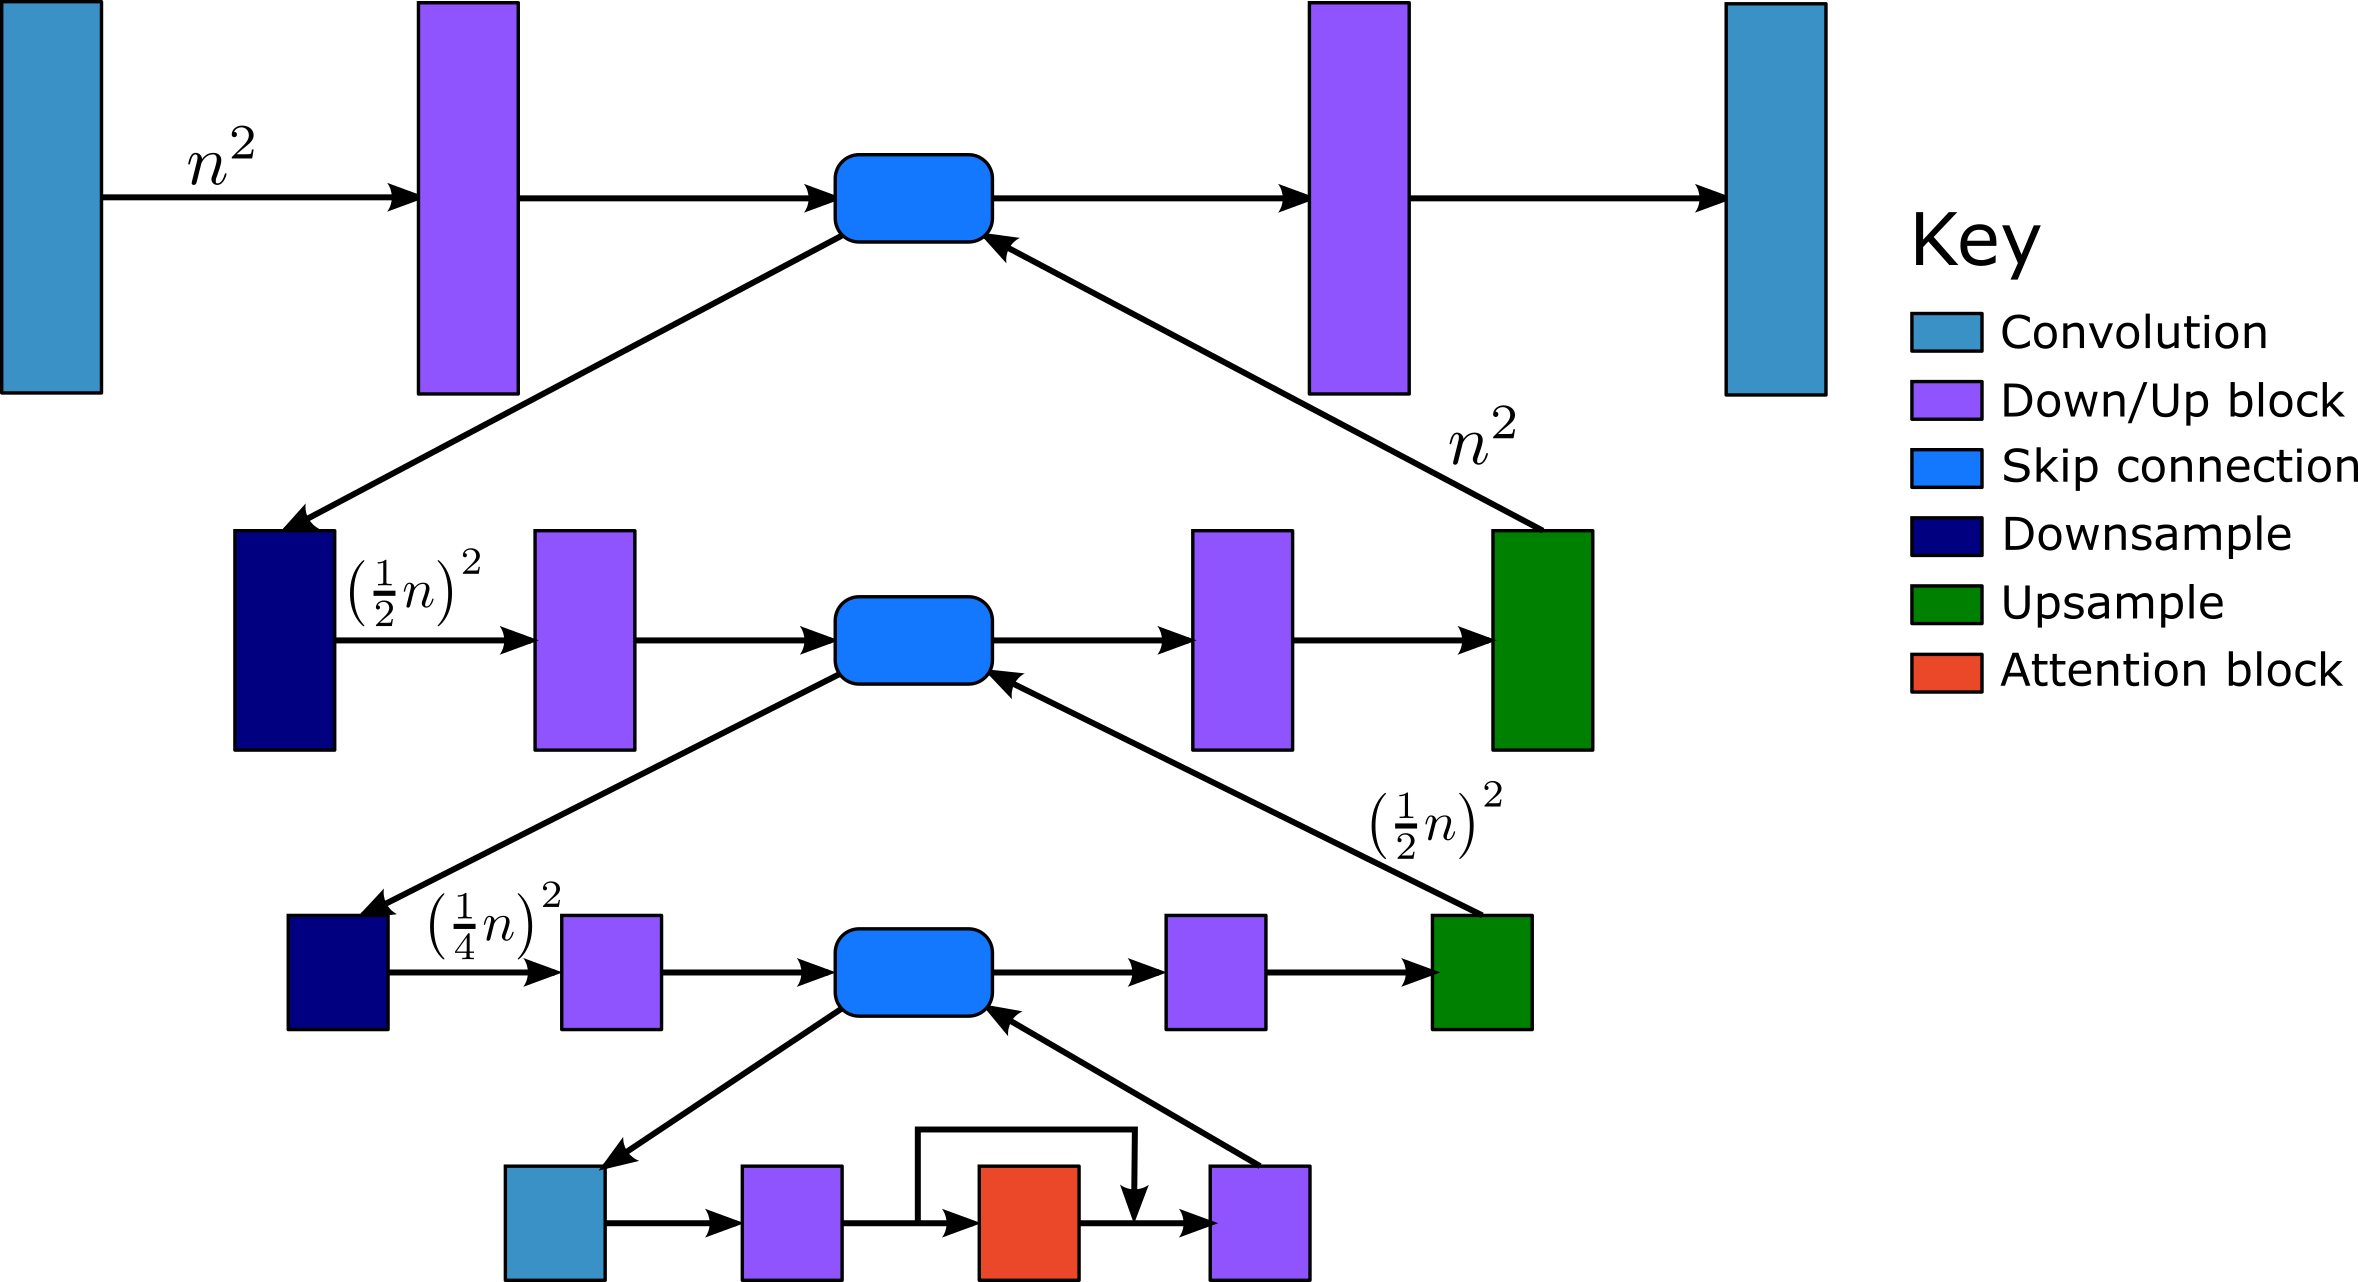
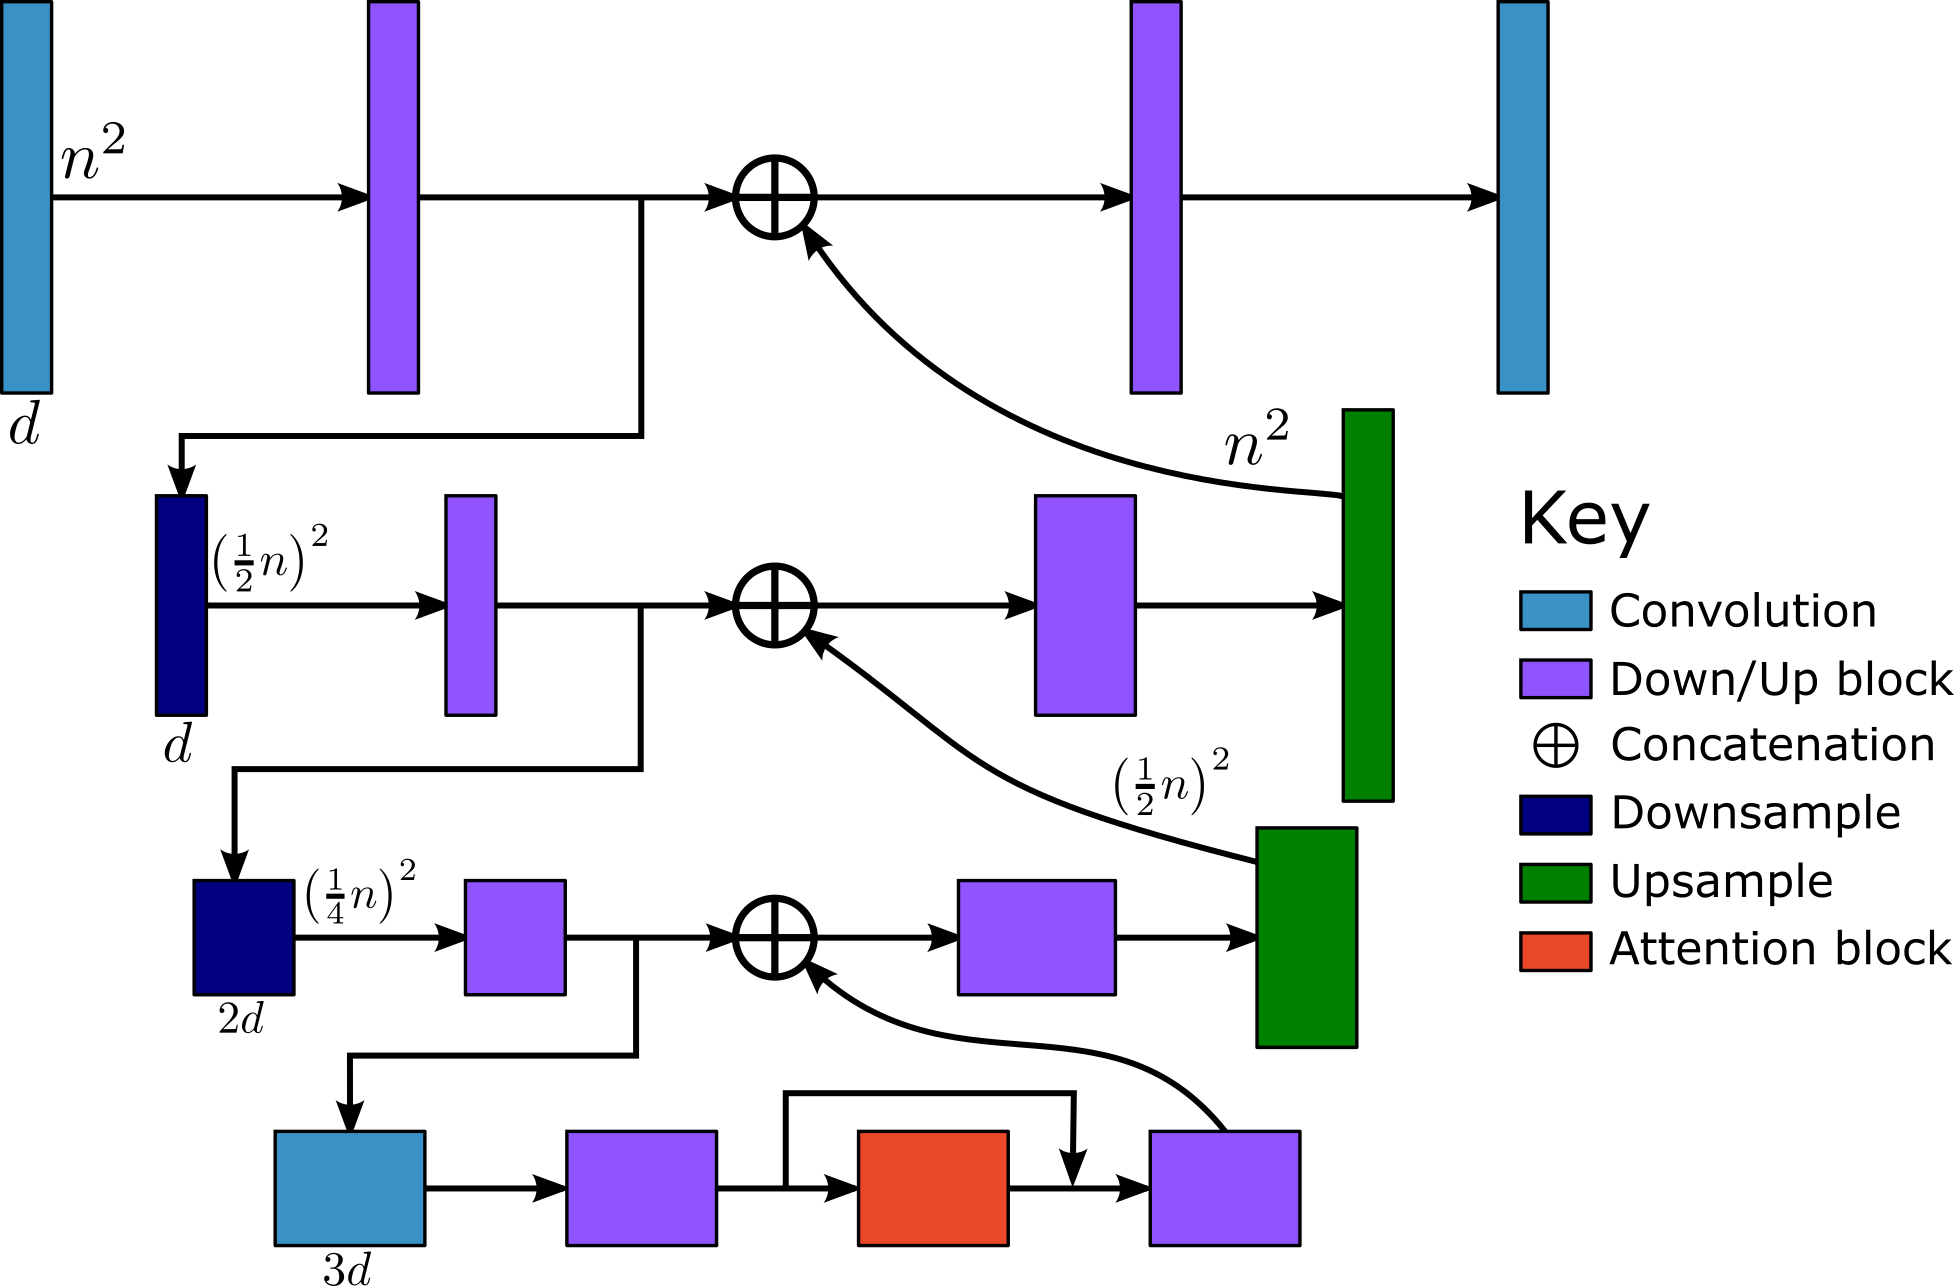
Fixed typos and updated the UNet diagram

diff --git a/_posts/2022-12-29-denoising-diffusion-2-unet.md b/_posts/2022-12-29-denoising-diffusion-2-unet.md
@@ -190,11 +190,11 @@ There are three solutions:
 2. Write a custom [ChainRulesCore.rrule](https://juliadiff.org/ChainRulesCore.jl/stable/rule_author/example.html) for the operation.
 3. Manually write the backward pass instead of using automatic differentiation.
 
-The second option is best when the operation can be isolated to only one layer.[^custom_rrule]
+Option 2 is best when the operation can be isolated to only one layer.[^custom_rrule]
 However here it encompasses most of the forward pass so it essentially is the same as option 3.
-Option 3 is not a good idea because (1) it requires lots more work and (2) the forward pass and backward pass will not be automatically in sync. 
+Option 3 is not a good idea because (1) it requires much more work and (2) the forward pass and backward pass will not be automatically in sync. 
 
-So we are left with the first option.
+So we are left with option 1.
 There are two ways to implement it. 
 The first is to fix the amount of layers so that we don't need a flexible mutable array.
 For example, for the minimum working example with only two layers:
@@ -244,13 +244,11 @@ Here is the full model architecture:
     src="/assets/posts/denoising-diffusion/UNet.png"
 	alt="U-Net with skip connections"
 	>
-<figcaption>U-Net with skip connections. Channel dimension is into the page (not shown). </figcaption>
+<figcaption>U-Net with skip connections. Only output sizes are shown.</figcaption>
 </figure>
 
-I like to think of the skip connections as layered like an onion but it is easiest to draw them unwrapped in the traditional U shape.
-
-Each downsample layer will decrease the image height and width by a factor of 2 but increase the channel dimension by the same amount.
-The sample is therefore downscaled by an overall factor of $\tfrac{1}{2}\tfrac{1}{2}(2)=\tfrac{1}{2}$.
+Each downsample layer will decrease the image height and width by a factor of 2 but increase the channel dimension by a multiplication factor $m$.
+The sample is therefore downscaled by an overall factor of $\tfrac{1}{2}\tfrac{1}{2}(m)=\tfrac{m}{4}$ per level.
 This is reversed with the upsample layers.
 The model however is based on convolutional layers which are independent of the input image height and width and only depend on the channel dimension. 
 (The inference time is a factor of the image size.)
@@ -258,7 +256,7 @@ Each layer grows with a factor $d^2$ for a channel dimension $d$.
 Therefore the largest layers are the middle (bottom) layers where the channel dimension is largest.
 Also because of the concatenation on the channel dimension, the upside layers will tend to be much larger than their downside counterparts.
 
-This figure shows this exponential relationship with the channel dimension more clearly. 
+This figure shows this exponential relationship with the channel dimension: 
 
 <figure class="post-figure">
 <img class="img-80"
@@ -279,7 +277,7 @@ Again please see this source code for the printing functions.
 
 ### Conditional SkipConnection
 
-As in part 1 we need to pass two inputs the model and so we'll need to reuse the `ConditionalChain` from 
+As in part 1 we need to pass two inputs to the model and so we'll need to reuse the `ConditionalChain` from 
 [part 1][first_principles-model]. 
 We'll need a custom `ConditionalSkipConnection` layer which can handle multiple inputs too.
 
@@ -323,10 +321,10 @@ The model will have a complex constructor.
 The most important parameters are the number of in channels (1 for a grey image and 3 for RGB images), the model dimension $d$ and the number of time steps $T$. 
 The total number of parameters scales with $d^2$. So if we double the model channel we will quadruple the number of parameters.
 
-Additionally, the user will also be to specify the channel multipliers instead of the default value of 2 per level.
+Additionally, the user will also be able to specify the channel multipliers instead of the default value of 2 per level.
 The block layer (purple blocks) will be configurable (either a [ConvEmbed](#convembed) or a [ResBlock](#resblock)) as well as the number of (purple) blocks per level.
 As a simplification only the last block in each level will be connected to a skip connection.
-We will have `Flux.GroupNorm` layers which requires a number of groups `G`; this will be set the same universally. 
+We will have `Flux.GroupNorm` layers which requires a number of groups `G`; this will be set the same throughout the model. 
 Lastly we'll have a parameter for the attention layer.
 
 {% highlight julia %}
@@ -633,6 +631,15 @@ This table summarises the resultant block sizes (all values are a slight underes
     <td>3</td>
     <td>147</td>
   </tr>
+  <tr>
+    <td>4</td>
+    <td>3</td>
+    <td>3</td>
+    <td>93</td>
+    <td></td>
+    <td></td>
+    <td></td>
+  </tr>
 </tbody>
 </table>
 
@@ -741,6 +748,15 @@ This table summarises the resultant block sizes (all values are a slight underes
     <td>3</td>
     <td>363</td>
   </tr>
+  <tr>
+    <td>4</td>
+    <td>3</td>
+    <td>3</td>
+    <td>174</td>
+    <td></td>
+    <td></td>
+    <td></td>
+  </tr>
 </tbody>
 </table>
 
@@ -837,8 +853,8 @@ This however is not recommended because of the "checkerboard" effect that transp
 
 ### Attention 
 
-This is the most complicated block in the model and also the the largest.
-This is a block based on the transformer self-attention layer that was first introduced in Google's 2017 paper  [Attention is all you need][Attention-all-you-need].
+This is the most complicated block in the model and also the largest.
+This block is based on the transformer self-attention layer that was first introduced in Google's 2017 paper  [Attention is all you need][Attention-all-you-need].
 [Ho et. al.][Ho-2020] do not give a justification for including it in the model.
 
 [Attention-all-you-need]: https://arxiv.org/abs/1706.03762
@@ -1156,7 +1172,7 @@ Here our sample should be recognisable as one of 10 digits without ambiguity.
 At the same time it should not match any in the original dataset because we want to create new images.
 This makes it tricky to evaluate.
 
-I have come up with two techniques. The first compares the samples to the mean test images. 
+Here I propose two techniques. The first is the mean squared error compared to the mean test images. 
 See the [mean images](#mnist-means) above.
 The second is the Frechet LeNet Distance, inspired by the popular Frechet Inception Distance (FID).
 Both require generating a large amount of samples for statistical significance. 
@@ -1231,13 +1247,12 @@ That is, this mean distance metric is not sufficient at evenly distinguishing be
 ### Frechet LeNet Distance
 
 A smarter way to evaluate the model is the Frechet Inception Distance (FID).
-This was introduce in the 2017 paper [GANs Trained by a Two Time-Scale Update Rule Converge to a Local Nash Equilibrium
- by Heusel et. al.][Heusel-2017].
+This was introduced in the 2017 paper [GANs Trained by a Two Time-Scale Update Rule Converge to a Local Nash Equilibrium by Heusel et. al.][Heusel-2017].
 There are two important insights.
-Firstly, after the work of the last two decades in machine learning image classification can be considered a solved task.
+Firstly, image classification can be considered a solved task after the work of the last two decades in machine learning.
 That is we can use an image classification model to get insights into our generated data.
 Secondly, we can view the outputs of penultimate layer of the model as a probability distribution and compare the [statistical distance][wiki-stastical-distance] of it between different datasets.
-The intuition behind using the penultimate layer is that it is an abstract feature space containing essential information about the samples that we can use to compare if samples are similar rather than manually specify features.
+The intuition behind using the penultimate layer is that it is an abstract feature space containing essential information about the samples that we can use to compare samples rather than manually specifying features.
 
 [LeCun-98]: http://vision.stanford.edu/cs598_spring07/papers/Lecun98.pdf
 [Heusel-2017]: https://arxiv.org/abs/1706.08500
@@ -1261,7 +1276,7 @@ Intuitively the first term represents the distance between the means and the sec
 The Inception V3 model however is overkill here.
 It has over 27 million parameters and the penultimate layer has a length of 2048.
 My proposal is to instead use the smaller LeNet-5 with 44,000 parameters and an output length of 84.
-It was first proposed in the 1998 paper [GradientBased Learning Applied to Document Recognition by Yann LeCun Leon Bottou Yoshua Bengio and Patrick Haffner][LeCun-98].
+It was first proposed in the 1998 paper [Gradient-Based Learning Applied to Document Recognition by Yann LeCun, Leon Bottou ,Yoshua Bengio and Patrick Haffner][LeCun-98].
 
 This is a Julia implementation from the [Flux model zoo](https://github.com/FluxML/model-zoo/blob/master/vision/conv_mnist/conv_mnist.jl):
 {% highlight julia %}
@@ -1285,7 +1300,7 @@ That said, you can view my script at [train_classifier.jl](https://github.com/Li
 This model gets a test accuracy of 98.54%. 
 This is good enough for us to consider it a perfect oracle.
 
-After training we can load the model::
+After training we can load the model:
 {% highlight julia %}
 classifier_path = "..\\models\\LeNet5\\model.bson"
 classifier = BSON.load(classifier_path)[:model]
